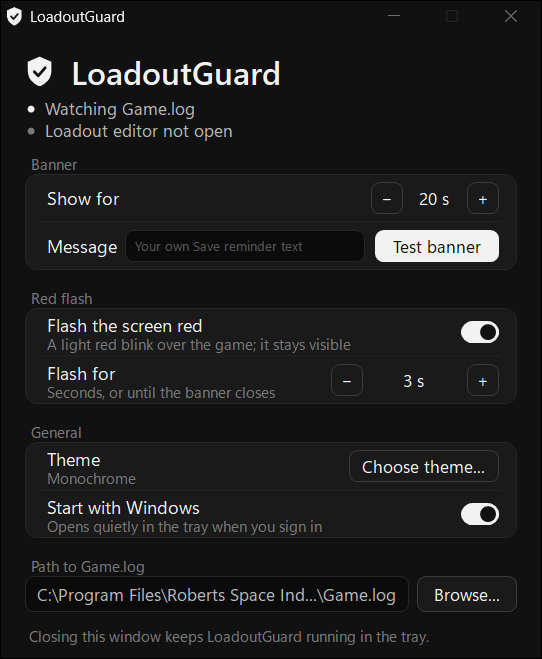
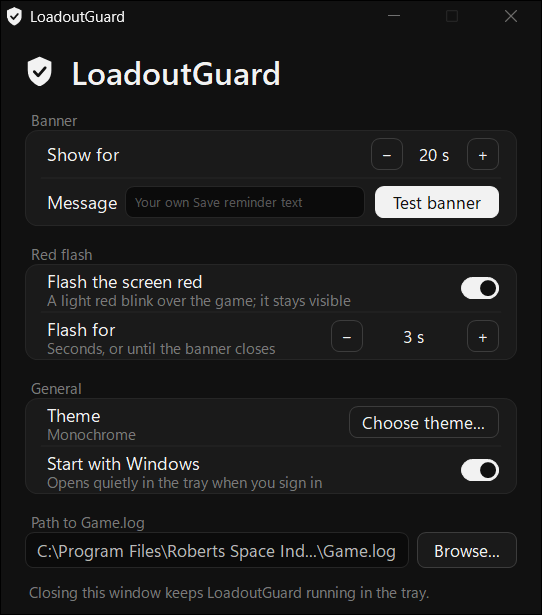
LoadoutGuard 1.0.1: polish
- The Game.log path can be typed or pasted, not only browsed. Quotes from
  Explorer's "Copy as path" are dropped, and text that is not a path yet
  counts as a missing log instead of crashing.
- The two status lines are gone from the window and the tray tooltip. A
  missing Game.log is said in red above the path box instead.

diff --git a/src/MainWindow.cs b/src/MainWindow.cs
@@ -4,30 +4,29 @@ using System.Drawing;
 using System.IO;
 using System.Windows.Forms;
 
-// The LoadoutGuard window: status, the banner, the red flash, theme and Game.log.
+// The LoadoutGuard window: the banner, the red flash, theme and Game.log.
 // Every change is saved and applied at once; closing the window keeps LoadoutGuard in the tray.
 class MainWindow : Form
 {
     static readonly int[] SecondSteps = { 5, 10, 15, 20, 30, 45, 60, 90, 120 };
     static readonly int[] FlashSteps = { 3, 5, 10, 20, 30, 60, 0 }; // 0 = until the banner closes
-    public const int Height96 = 626;
+    public const int Height96 = 582;
     const int Width96 = 540, Pad = 24, Inner = Width96 - 2 * Pad, Right = Inner - 18, RowH = 48;
     const string FooterText = "Closing this window keeps LoadoutGuard running in the tray.";
 
     readonly Settings settings;
     readonly Action changed, testBanner;
     readonly Mark mark = new Mark();
-    readonly Label title = new Label(), logStatus = new Label(), editorStatus = new Label(), footer = new Label();
+    readonly Label title = new Label(), footer = new Label();
     readonly Label secondsValue = new Label(), flashValue = new Label(), themeName = new Label();
-    readonly Dot logDot = new Dot(), editorDot = new Dot();
     readonly Toggle startup = new Toggle(), flash = new Toggle();
     readonly PillButton fewer = new PillButton(), more = new PillButton(), test = new PillButton();
     readonly PillButton shorter = new PillButton(), longer = new PillButton();
     readonly PillButton chooseTheme = new PillButton(), browse = new PillButton();
-    readonly PathBox logPath = new PathBox();
-    readonly TextBox customMessage = new TextBox();
+    readonly TextBox customMessage = new TextBox(), logPath = new TextBox();
     readonly List<Label> sections = new List<Label>(), rowTitles = new List<Label>(), rowNotes = new List<Label>();
-    bool logFound, editorOpen, watchingSave;
+    Label logSection;
+    bool logFound;
 
     public MainWindow(Settings settings, Action changed, Action testBanner)
     {
@@ -48,14 +47,10 @@ class MainWindow : Form
         title.Text = "LoadoutGuard";
         title.Font = Ui.Heading(19f);
         PlaceText(this, title, 62, 17);
-        Place(this, logDot, Pad + 2, 73, 8, 8);
-        PlaceText(this, logStatus, Pad + 16, 65);
-        Place(this, editorDot, Pad + 2, 95, 8, 8);
-        PlaceText(this, editorStatus, Pad + 16, 87);
 
         // banner
-        Section("Banner", 122);
-        var banner = AddCard(142, 2, RowH);
+        Section("Banner", 78);
+        var banner = AddCard(98, 2, RowH);
 
         RowTitle(banner, 0, "Show for");
         fewer.Text = "−";
@@ -86,8 +81,8 @@ class MainWindow : Form
         test.Click += delegate { testBanner(); };
 
         // red flash
-        Section("Red flash", 256);
-        var red = AddCard(276, 2, RowH);
+        Section("Red flash", 212);
+        var red = AddCard(232, 2, RowH);
         ToggleRow(red, 0, flash, "Flash the screen red", "A light red blink over the game; it stays visible",
             settings.Flash, delegate { settings.Flash = flash.Checked; });
         var flashLabel = new Label { Text = "Flash for", Font = Ui.Font(10.5f) };
@@ -104,8 +99,8 @@ class MainWindow : Form
         longer.Click += delegate { SetFlashSeconds(+1); };
 
         // theme and startup
-        Section("General", 390);
-        var general = AddCard(410, 2, RowH);
+        Section("General", 346);
+        var general = AddCard(366, 2, RowH);
         var themeLabel = new Label { Text = "Theme", Font = Ui.Font(10.5f) };
         PlaceText(general, themeLabel, 18, 5);
         rowTitles.Add(themeLabel);
@@ -123,34 +118,42 @@ class MainWindow : Form
             AutoStart.Enabled, delegate { SetAutoStart(); });
 
         // Game.log
-        Section("Path to Game.log", 524);
-        logPath.Text = settings.GameLog;
-        Place(this, logPath, Pad, 544, Inner - 108, 36);
+        logSection = Section("Path to Game.log", 480);
+        // typed, pasted or browsed; same rounded frame as the message box
+        var logFrame = new PathBox { Cursor = Cursors.IBeam };
+        Place(this, logFrame, Pad, 500, Inner - 108, 36);
+        logFrame.Click += delegate { logPath.Focus(); };
+        logPath.BorderStyle = BorderStyle.None;
+        logPath.Text = settings.GameLog; // before the handler, so loading doesn't count as a change
+        Place(this, logPath, Pad + 12, 500, Inner - 108 - 24, 20);
+        logPath.Top = logFrame.Top + (logFrame.Height - logPath.Height) / 2;
+        logPath.BringToFront();
+        logPath.TextChanged += delegate
+        {
+            settings.GameLog = logPath.Text.Trim().Trim('"'); // Explorer's "Copy as path" adds quotes
+            Changed();
+        };
+        logPath.KeyDown += (s, e) => { if (e.KeyCode == Keys.Enter) e.SuppressKeyPress = true; }; // no error ding
         browse.Text = "Browse...";
-        Place(this, browse, Pad + Inner - 100, 544, 100, 36);
+        Place(this, browse, Pad + Inner - 100, 500, 100, 36);
         browse.Click += delegate { Browse(); };
 
         footer.Text = FooterText;
         footer.Font = Ui.Font(9f);
-        PlaceText(this, footer, Pad, 594);
+        PlaceText(this, footer, Pad, 550);
 
         ApplyTheme();
         Shown += delegate { ActiveControl = null; }; // no blinking caret in the message box on open
     }
 
     // Called by TrayApp every second while the window is open.
-    public void ShowStatus(bool logFound, bool editorOpen, bool watchingSave)
+    // Nothing shows while all is well; a missing Game.log is said where it can be fixed.
+    public void ShowStatus(bool logFound)
     {
         this.logFound = logFound;
-        this.editorOpen = editorOpen;
-        this.watchingSave = watchingSave;
         var t = Theme.Find(settings.Theme);
-        logStatus.Text = logFound ? "Watching Game.log" : "Game.log not found. Set where it is below.";
-        logDot.Color = logFound ? t.Accent : t.Danger;
-        editorStatus.Text = !editorOpen ? "Loadout editor not open"
-            : watchingSave ? "Loadout editor open, watching for Save clicks"
-            : "Loadout editor open";
-        editorDot.Color = editorOpen ? t.Accent : t.Text3;
+        logSection.Text = logFound ? "Path to Game.log" : "Game.log not found. Set where it is:";
+        logSection.ForeColor = logFound ? t.Text3 : t.Danger;
     }
 
     protected override void OnKeyDown(KeyEventArgs e)
@@ -168,16 +171,16 @@ class MainWindow : Form
         Ui.StyleTitleBar(this, t);
 
         title.ForeColor = t.Text;
-        logStatus.ForeColor = editorStatus.ForeColor = t.Text2;
         secondsValue.ForeColor = flashValue.ForeColor = customMessage.ForeColor = t.Text;
-        customMessage.BackColor = t.Side;
+        logPath.ForeColor = t.Text2;
+        customMessage.BackColor = logPath.BackColor = t.Side;
         footer.ForeColor = t.Text3;
         foreach (var label in sections) label.ForeColor = t.Text3;
         foreach (var label in rowTitles) label.ForeColor = t.Text;
         foreach (var label in rowNotes) label.ForeColor = t.Text3;
         themeName.Text = t.Name;
 
-        ShowStatus(logFound, editorOpen, watchingSave);
+        ShowStatus(logFound);
     }
 
     void SetAutoStart()
@@ -238,12 +241,14 @@ class MainWindow : Form
         {
             dialog.Title = "Find Star Citizen's Game.log (in the LIVE or PTU folder)";
             dialog.Filter = "Game.log|Game.log|Log files (*.log)|*.log";
-            var folder = Path.GetDirectoryName(settings.GameLog);
-            if (Directory.Exists(folder)) dialog.InitialDirectory = folder;
+            try
+            {
+                var folder = Path.GetDirectoryName(settings.GameLog);
+                if (Directory.Exists(folder)) dialog.InitialDirectory = folder;
+            }
+            catch (ArgumentException) { } // the typed text is not a path
             if (dialog.ShowDialog(this) != DialogResult.OK) return;
-            settings.GameLog = dialog.FileName;
-            logPath.Text = dialog.FileName;
-            Changed();
+            logPath.Text = dialog.FileName; // its handler saves and applies
         }
     }
 
@@ -270,11 +275,12 @@ class MainWindow : Form
 
     // ---- layout helpers (positions at 100% scaling) ----
 
-    void Section(string text, int y)
+    Label Section(string text, int y)
     {
         var label = new Label { Text = text, Font = Ui.Font(9f) };
         PlaceText(this, label, Pad + 2, y);
         sections.Add(label);
+        return label;
     }
 
     Card AddCard(int y, int rows, int rowHeight)

diff --git a/src/Program.cs b/src/Program.cs
@@ -193,7 +193,7 @@ class TrayApp : ApplicationContext
         else if (!atSignIn || !tail.FileFound) // started with Windows: stay quiet unless something is wrong
             tray.ShowBalloonTip(5000, "LoadoutGuard is running",
                 tail.FileFound
-                    ? "Watching " + settings.GameLog
+                    ? "It stays in the system tray. Double-click the icon to open it."
                     : "Game.log not found. Double-click the tray icon to set where it is.",
                 tail.FileFound ? ToolTipIcon.Info : ToolTipIcon.Warning);
     }
@@ -203,8 +203,8 @@ class TrayApp : ApplicationContext
         var now = DateTime.UtcNow;
         foreach (var line in tail.ReadNewLines()) detector.Check(line, now);
         UpdateMouseWatcher(now);
-        tray.Text = tail.FileFound ? "LoadoutGuard: watching Game.log" : "LoadoutGuard: Game.log not found";
-        if (window != null) window.ShowStatus(tail.FileFound, detector.EditorProbablyOpen(now), mouse.Running);
+        tray.Text = tail.FileFound ? "LoadoutGuard" : "LoadoutGuard: Game.log not found";
+        if (window != null) window.ShowStatus(tail.FileFound);
     }
 
     // The mouse hook only runs while the loadout editor is probably open; the rest of the time it is off.
@@ -250,7 +250,7 @@ class TrayApp : ApplicationContext
             window = new MainWindow(settings, OnSettingsChanged, delegate { ShowBanner(); });
             window.FormClosed += delegate { window = null; };
         }
-        window.ShowStatus(tail.FileFound, detector.EditorProbablyOpen(DateTime.UtcNow), mouse.Running);
+        window.ShowStatus(tail.FileFound);
         window.Show();
         if (window.WindowState == FormWindowState.Minimized) window.WindowState = FormWindowState.Normal;
         window.Activate();

diff --git a/src/Ui.cs b/src/Ui.cs
@@ -371,26 +371,6 @@ class PathBox : PaintedControl
     }
 }
 
-// A small round status light.
-class Dot : PaintedControl
-{
-    Color color = Color.Gray;
-
-    public Color Color
-    {
-        get { return color; }
-        set { color = value; Invalidate(); }
-    }
-
-    protected override void OnPaint(PaintEventArgs e)
-    {
-        var g = e.Graphics;
-        g.Clear(BackColor);
-        g.SmoothingMode = SmoothingMode.AntiAlias;
-        using (var brush = new SolidBrush(color)) g.FillEllipse(brush, 0, 0, Width - 1, Height - 1);
-    }
-}
-
 // The shield mark next to the title.
 class Mark : PaintedControl
 {

diff --git a/src/LogTail.cs b/src/LogTail.cs
@@ -35,6 +35,8 @@ class LogTail
         }
         catch (FileNotFoundException) { Missing(); return lines; }
         catch (DirectoryNotFoundException) { Missing(); return lines; }
+        catch (System.ArgumentException) { Missing(); return lines; } // not a path at all: empty or half typed
+        catch (System.NotSupportedException) { Missing(); return lines; }
         catch (IOException) { return lines; } // file busy for a moment (game moving it); retry next poll
         catch (System.UnauthorizedAccessException) { return lines; }
 

diff --git a/tests/SelfTest.cs b/tests/SelfTest.cs
@@ -58,6 +58,11 @@ static class SelfTest
         {
             File.Delete(path);
         }
+        foreach (var typed in new[] { "", "   ", @"C:\a:b\Game.log", @"C:\a<b|c", "\"C:/Game.log" })
+        {
+            var tail = new LogTail(typed);
+            Check(tail.ReadNewLines().Count == 0 && !tail.FileFound, "a half-typed path is just a missing file: [" + typed + "]");
+        }
     }
 
     static void TestDetector()

diff --git a/README.md b/README.md
@@ -71,11 +71,10 @@ Right-click the tray icon and choose **Uninstall...**. This removes LoadoutGuard
 
 Open it by double-clicking the tray icon, or by starting `LoadoutGuard.exe` again. Every change applies at once; there's no Save button and no restart needed. On small or highly scaled screens (such as 1366x768, or a 1080p laptop at 150%) the window shrinks to fit.
 
-- **Status**: whether `Game.log` was found, and whether the loadout editor is open and Save clicks are being watched.
 - **Banner**: how long the banner stays, **Message** for your own reminder text (leave it empty for the standard message), and **Test banner** to check that the banner and the blink show over your game.
 - **Red flash**: **Flash the screen red** turns the blink on or off. **Flash for** sets how long it blinks: 3 to 60 seconds, or **Until closed** to keep blinking until the banner closes.
 - **General**: **Start with Windows** (off by default), and **Choose theme...**, which opens the theme picker: Monochrome (black and white, the default), Nebula (purple), Ember (clay), Midnight (blue), mobiGlas (cyan) or Paper (light). The theme also colours the banner, the tray icon and, on Windows 11, the title bar.
-- **Path to Game.log**: where your log is. Use **Browse...** for another drive or the PTU.
+- **Path to Game.log**: where your log is. Type or paste the path, or use **Browse...**, for another drive or the PTU. If the log isn't found, this says so in red.
 
 Closing the window keeps LoadoutGuard running in the tray. Right-click the tray icon to **Pause reminders**, **Uninstall...** or **Exit**.
 
